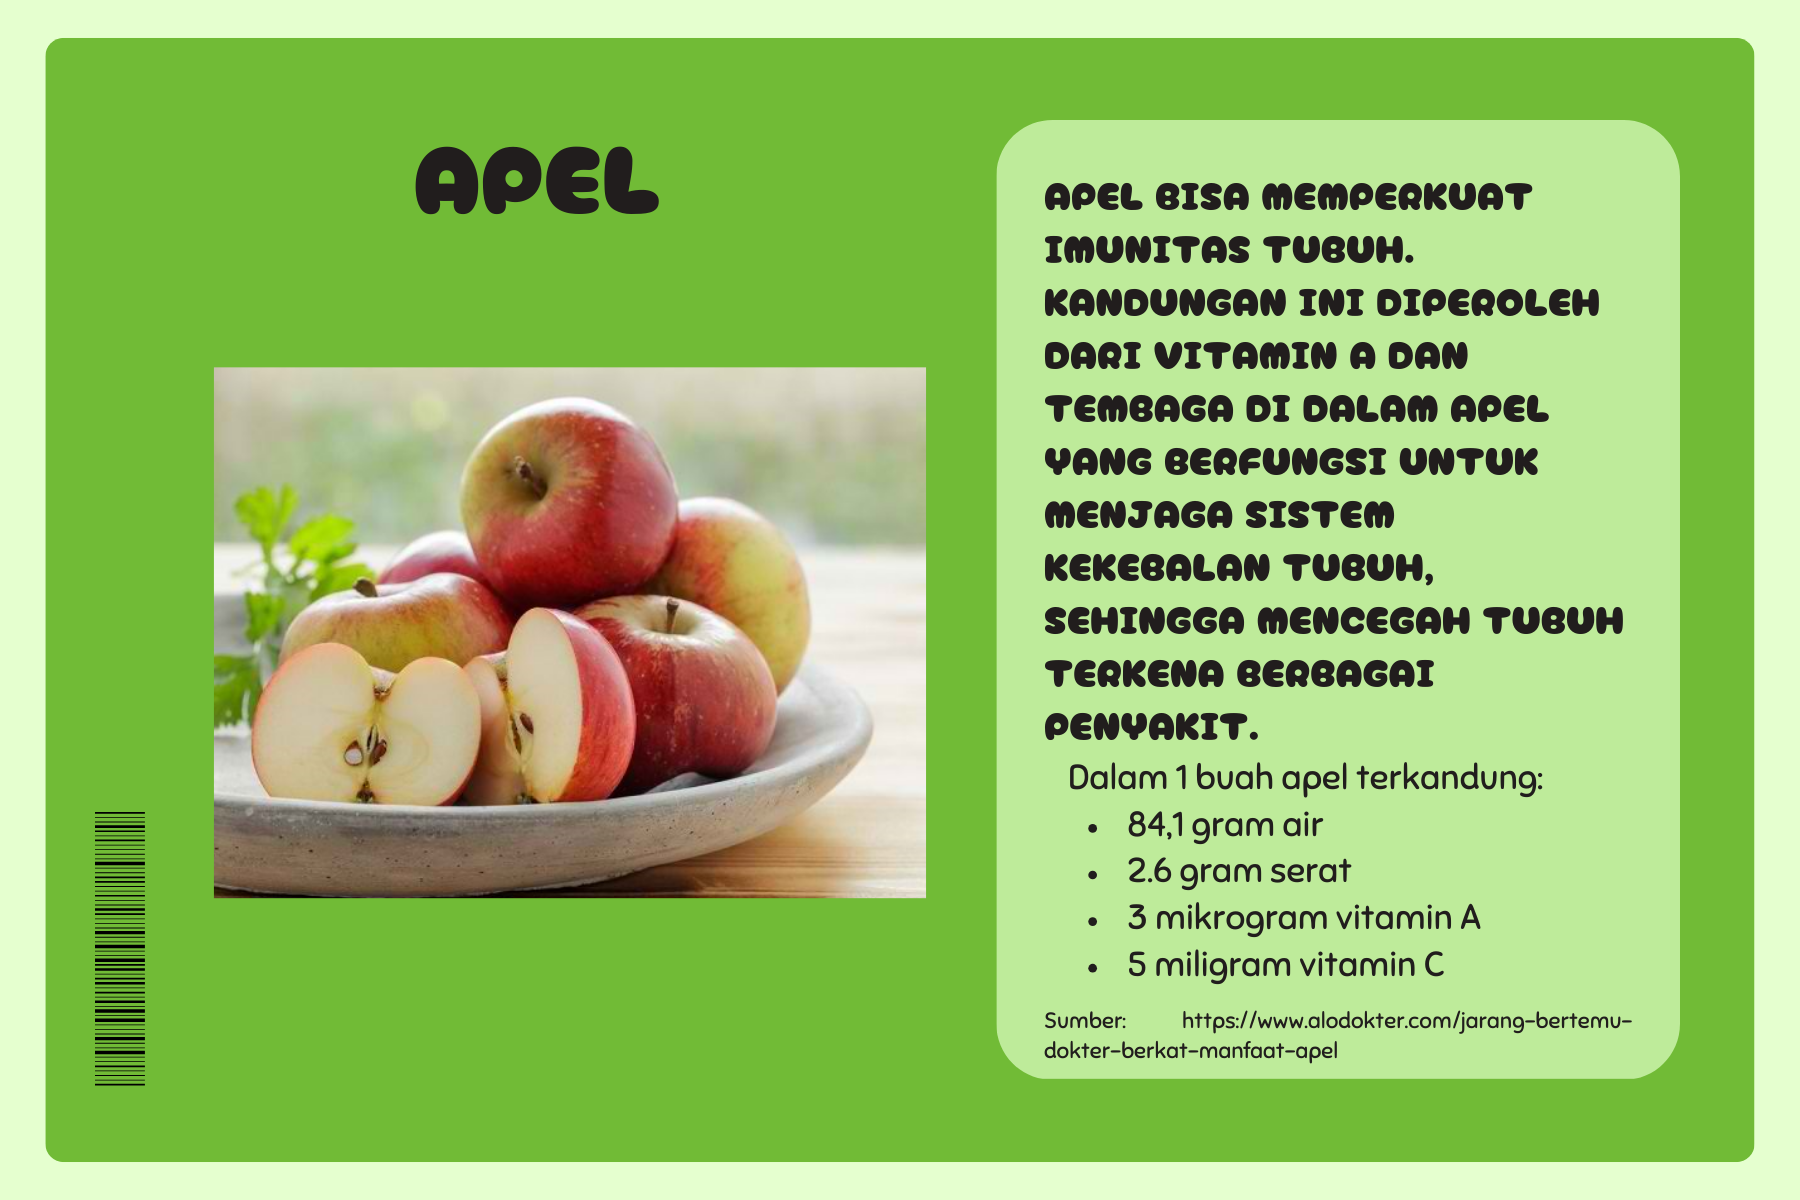
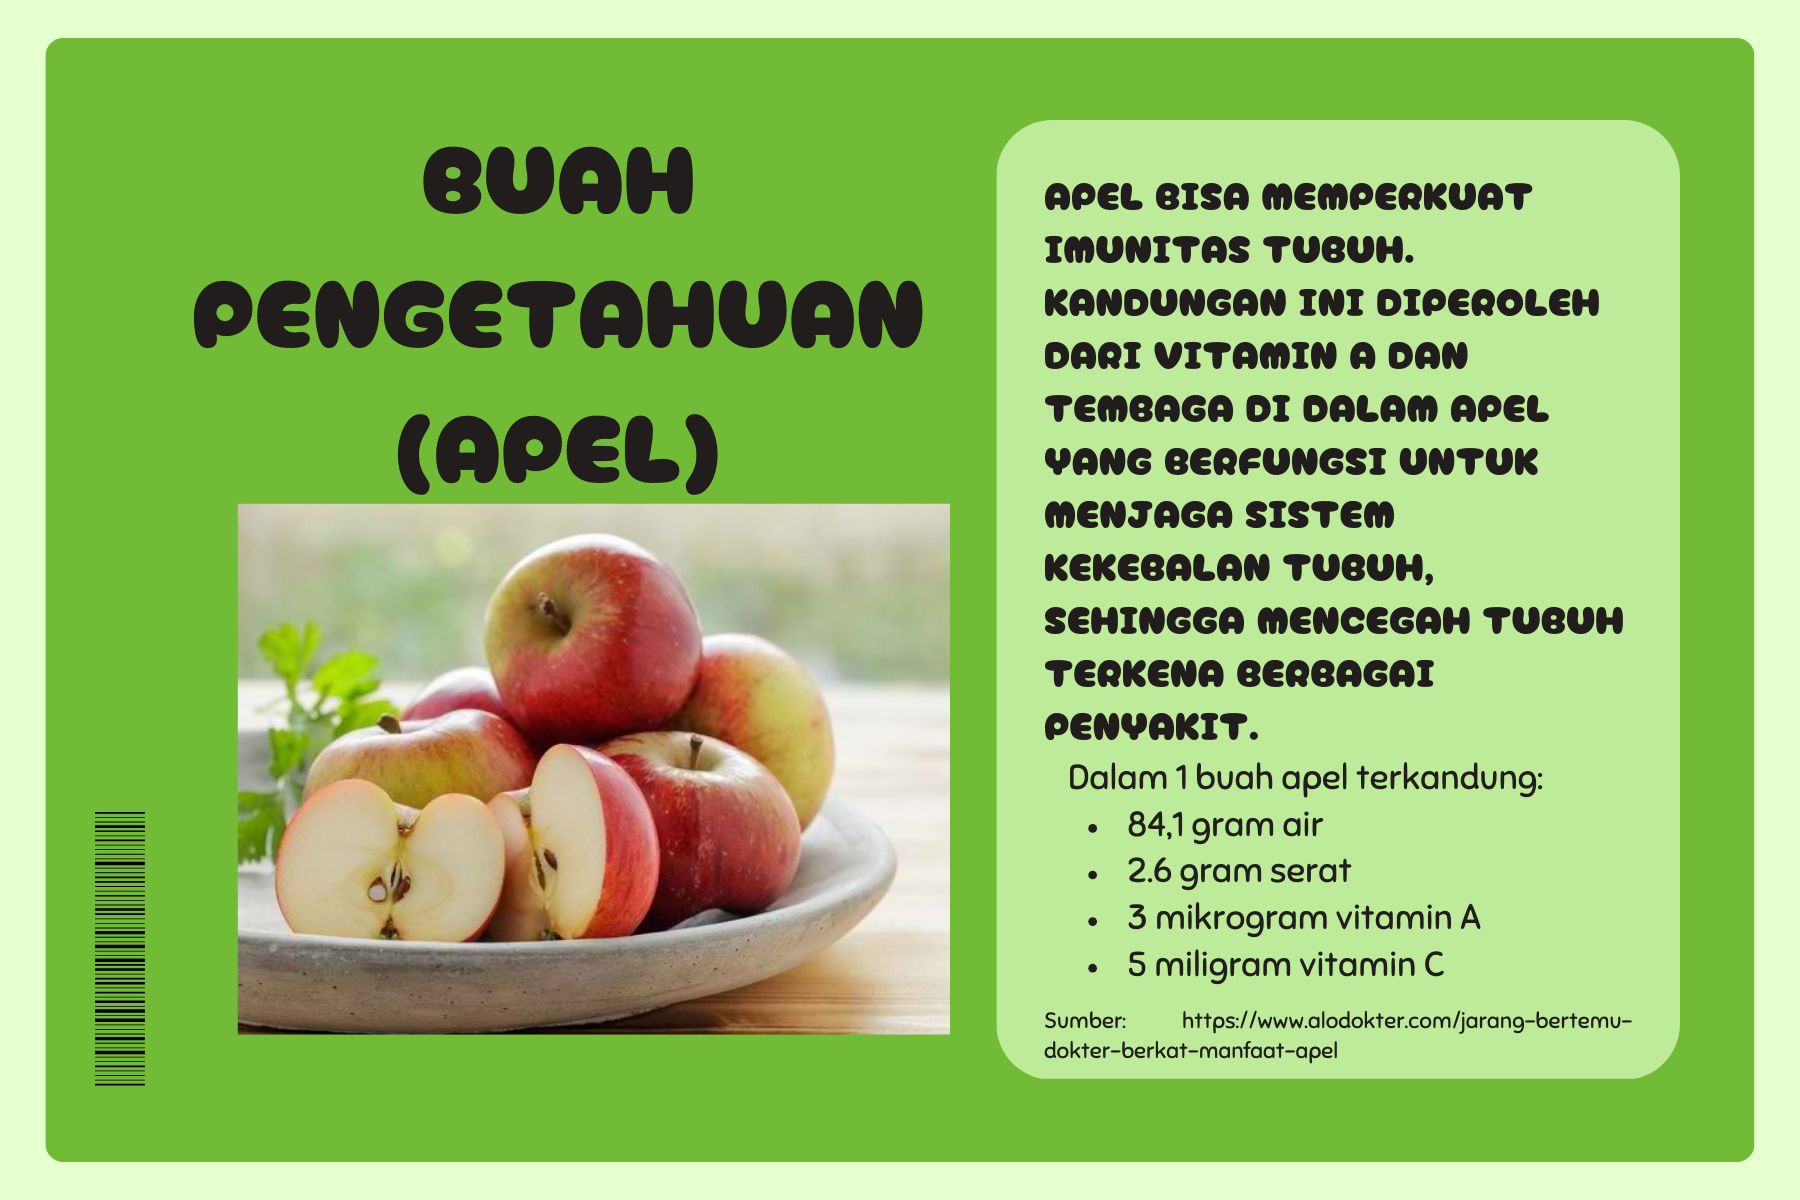
v1.1.1

Changed region(s): [[0.0933, 0.2158, 0.5289, 0.8633], [0.2178, 0.1233, 0.4044, 0.185]]

diff --git a/dashboard.html b/dashboard.html
@@ -34,7 +34,7 @@
        Jumlah: <input type="number" class="jumlah posint">
       </div>
       <div class="col" id="nasi">
-       <b>Nasi Putih</b><br>
+       <b>Snow White</b><br>
        Kalori: <span class="kalori">160</span> kkal<br>
        Point: <span class="point">5</span><br>
        Harga: Rp <span class="harga">5000</span>
@@ -49,7 +49,7 @@
        Jumlah: <input type="number" class="jumlah posint">
       </div>
       <div class="col" id="spaghetti">
-       <b>Spaghetti Bolognese</b><br>
+       <b>Kumis Naga</b><br>
        Kalori: <span class="kalori">370</span> kkal<br>
        Point: <span class="point">10</span><br>
        Harga: Rp <span class="harga">20000</span>
@@ -68,7 +68,7 @@
        Jumlah: <input type="number" class="jumlah posint">
       </div>
       <div class="col" id="rendang">
-       <b>Rendang</b><br>
+       <b>Sapi Imut</b><br>
        Kalori: <span class="kalori">195</span> kkal<br>
        Point: <span class="point">5</span><br>
        Harga: Rp <span class="harga">10000</span>
@@ -83,7 +83,7 @@
        Jumlah: <input type="number" class="jumlah posint">
       </div>
       <div class="col" id="steak">
-       <b>Chicken Steak</b><br>
+       <b>Ayam Pyok Pyok</b><br>
        Kalori: <span class="kalori">165</span> kkal<br>
        Point: <span class="point">5</span><br>
        Harga: Rp <span class="harga">10000</span>
@@ -102,7 +102,7 @@
        Jumlah: <input type="number" class="jumlah posint">
       </div>
       <div class="col" id="brokoli">
-       <b>Cah Brokoli</b><br>
+       <b>Kribo Sehat</b><br>
        Kalori: <span class="kalori">34</span> kkal<br>
        Point: <span class="point">10</span><br>
        Harga: Rp <span class="harga">7000</span>
@@ -117,7 +117,7 @@
        Jumlah: <input type="number" class="jumlah posint">
       </div>
       <div class="col" id="kangkung">
-       <b>Tumis Kangkung</b><br>
+       <b>Favoritnya Kelinci</b><br>
        Kalori: <span class="kalori">28</span> kkal<br>
        Point: <span class="point">15</span><br>
        Harga: Rp <span class="harga">3000</span>
@@ -136,7 +136,7 @@
        Jumlah: <input type="number" class="jumlah posint">
       </div>
       <div class="col" id="pisang">
-       <b>Pisang</b><br>
+       <b>Bulan Sabit</b><br>
        Kalori: <span class="kalori">99</span> kkal<br>
        Point: <span class="point">15</span><br>
        Harga: Rp <span class="harga">2000</span>
@@ -151,7 +151,7 @@
        Jumlah: <input type="number" class="jumlah posint">
       </div>
       <div class="col" id="apel">
-       <b>Apel</b><br>
+       <b>Buah Pengetahuan</b><br>
        Kalori: <span class="kalori">40</span> kkal<br>
        Point: <span class="point">10</span><br>
        Harga: Rp <span class="harga">5000</span>
@@ -188,30 +188,30 @@ Icon by graphicmall-->
    <div class="modal-dialog modal-dialog-centered">
     <div class="modal-content">
      <div class="modal-header">
-      <button class="btn-close" data-bs-dismiss="modal"></button>
+      <button class="btn-close" data-bs-dismiss="modal" style="width:fit-content;"></button>
      </div>
      <div class="modal-body">
       <img id="menu_d"></img>
       <!--
        GAMBAR:
-       Nasi : https://res.cloudinary.com/dk0z4ums3/image/upload/v1636537131/attached_image/nutrisi-dan-kalori-nasi-putih-serta-fungsinya-bagi-tubuh-0-alodokter.jpg
-       Spaghetti Bolognese : https://akcdn.detik.net.id/community/media/visual/2022/01/26/resep-spaghetti-bolognese_43.jpeg?w=700&q=90
-       Rendang : https://doktersehat.com/wp-content/uploads/2018/06/Gizi-dan-cara-sehat-makan-rendang-doktersehat-1.jpg
-       Chicken Steak : https://akcdn.detik.net.id/community/media/visual/2017/12/07/777b189c-3e98-46cf-9d5d-6bf1ea306040.jpg?w=700&q=90
-       Brokoli : https://cdn.hellosehat.com/wp-content/uploads/2017/07/1b625924e1a8e042675f61639de71f93-700x467.jpg
-       Kangkung : https://cdn.hellosehat.com/wp-content/uploads/2017/06/manfaat-kangkung.jpg?w=750&q=75
-       Pisang Ambon : https://manfaat.co.id/wp-content/uploads/2015/04/manfaat-pisang-ambon.jpg
-       Apel : https://res.cloudinary.com/dk0z4ums3/image/upload/v1630331721/attached_image/jarang-bertemu-dokter-berkat-manfaat-apel-0-alodokter.jpg
+       Snow White : https://res.cloudinary.com/dk0z4ums3/image/upload/v1636537131/attached_image/nutrisi-dan-kalori-nasi-putih-serta-fungsinya-bagi-tubuh-0-alodokter.jpg
+       Kumis Naga : https://akcdn.detik.net.id/community/media/visual/2022/01/26/resep-spaghetti-bolognese_43.jpeg?w=700&q=90
+       Sapi Imut : https://doktersehat.com/wp-content/uploads/2018/06/Gizi-dan-cara-sehat-makan-rendang-doktersehat-1.jpg
+       Ayam Pyok Pyok : https://akcdn.detik.net.id/community/media/visual/2017/12/07/777b189c-3e98-46cf-9d5d-6bf1ea306040.jpg?w=700&q=90
+       Kribo Sehat : https://cdn.hellosehat.com/wp-content/uploads/2017/07/1b625924e1a8e042675f61639de71f93-700x467.jpg
+       Favoritnya Kelinci : https://cdn.hellosehat.com/wp-content/uploads/2017/06/manfaat-kangkung.jpg?w=750&q=75
+       Bulan Sabit : https://manfaat.co.id/wp-content/uploads/2015/04/manfaat-pisang-ambon.jpg
+       Buah Pengetahuan : https://res.cloudinary.com/dk0z4ums3/image/upload/v1630331721/attached_image/jarang-bertemu-dokter-berkat-manfaat-apel-0-alodokter.jpg
 
        INFORMASI GIZI:
-       Nasi : https://www.alodokter.com/nutrisi-dan-kalori-nasi-putih-serta-fungsinya-bagi-tubuh
-       Spaghetti Bolognese : https://www.fatsecret.co.id/kalori-gizi/yummy-choice/spaghetti-bolognese/1-porsi
-       Rendang : https://www.fatsecret.co.id/kalori-gizi/umum/rendang
-       Chicken Steak : https://www.fatsecret.co.id/kalori-gizi/umum/daging-dada-ayam-(ayam-pedaging-dipanggang-dimasak)
-       Brokoli : https://hellosehat.com/nutrisi/fakta-gizi/10-manfaat-brokoli-anti-kanker-kesehatan-hamil/
-       Kangkung : https://hellosehat.com/nutrisi/fakta-gizi/manfaat-kangkung-buat-kesehatan/
-       Pisang Ambon : https://manfaat.co.id/manfaat-pisang-ambon
-       Apel : https://www.alodokter.com/jarang-bertemu-dokter-berkat-manfaat-apel
+       Snow White : https://www.alodokter.com/nutrisi-dan-kalori-nasi-putih-serta-fungsinya-bagi-tubuh
+       Kumis Naga : https://www.fatsecret.co.id/kalori-gizi/yummy-choice/spaghetti-bolognese/1-porsi
+       Sapi Imut : https://www.fatsecret.co.id/kalori-gizi/umum/rendang
+       Ayam Pyok Pyok : https://www.fatsecret.co.id/kalori-gizi/umum/daging-dada-ayam-(ayam-pedaging-dipanggang-dimasak)
+       Kribo Sehat : https://hellosehat.com/nutrisi/fakta-gizi/10-manfaat-brokoli-anti-kanker-kesehatan-hamil/
+       Favoritnya Kelinci : https://hellosehat.com/nutrisi/fakta-gizi/manfaat-kangkung-buat-kesehatan/
+       Bulan Sabit : https://manfaat.co.id/manfaat-pisang-ambon
+       Buah Pengetahuan : https://www.alodokter.com/jarang-bertemu-dokter-berkat-manfaat-apel
       -->
      </div>
     </div>
@@ -220,5 +220,8 @@ Icon by graphicmall-->
   <script src="js/element_manipulator.js"></script>
   <script src="js/dashboardjs.js"></script>
   <script src="footer.js"></script>
+  <!--
+   Background Remover : https://remove.bg
+  -->
  </body>
 </html>

diff --git a/index.html b/index.html
@@ -22,7 +22,7 @@
     </div>
     <div class="col">
      <h1>Welcome to Limamenit.net</h1><br>
-     <h2>Kantin Sekolah Cepat dan Sehat</h2>
+     <h2 style="color:#444;">Kantin Sekolah Cepat dan Sehat</h2>
     </div>
    </div>
   </div>
@@ -70,17 +70,17 @@
    <h1 class="text-center">Testimoni</h1><br>
    <div class="row">
     <div class="col">
-     <img src="asset/logo.png" alt="@SmartBoy"><br>
-     <a>@SmartBoy</a>
-     <p>Jadi suka makan sayur dan buah nih sejak order makanan kantin lewat Limamenit.net. Abis dapat tambahan point berhadiah sih kalau makan sehat..wkk…wkk</p>
+      <img src="asset/SmartBoy.png" alt="@SmartBoy" width="200" height="200"><!--Dibuat menggunakan https://canva.com dan PowerPoint, Sumber: Foto Pribadi--><br>
+      <a>@SmartBoy</a><br>
+      <p>Jadi suka makan sayur dan buah nih sejak order makanan kantin lewat Limamenit.net. Abis dapat tambahan point berhadiah sih kalau makan sehat..wkk…wkk</p>
     </div>
     <div class="col">
-     <img src="asset/logo.png" alt="@KokiCantik"><br>
+     <img src="asset/KokiCantik.png" alt="@KokiCantik" width="200" height="194"><!--Dibuat menggunakan https://canva.com dan PowerPoint, Sumber: Foto Pribadi--><br>
      <a>@KokiCantik</a>
      <p>Dulu masakan kantin sering sisa, sekarang jadi sold out terus karena masaknya bisa diatur sesuai order. Pelanggan kenyang, kantin cuan, zero waste</p>
     </div>
     <div class="col">
-     <img src="asset/logo.png" alt="@MsChem"><br>
+     <img src="asset/MsChem.png" alt="@MsChem" width="200" height="202"><br><!--Dibuat menggunakan https://canva.com dan PowerPoint, Sumber: Foto Pribadi-->
      <a>@MsChem</a>
      <p>Ga ada lagi murid telat masuk kelas karena lama antri di kantin</p>
     </div>
@@ -133,5 +133,8 @@
   <script src="js/element_manipulator.js"></script>
   <script src="js/indexjs.js"></script>
   <script src="footer.js"></script>
+  <!--
+   Background Remover : https://remove.bg
+  -->
  </body>
 </html>

diff --git a/header.js b/header.js
@@ -15,7 +15,7 @@ if (docname == "index.html") {
  navopt.innerHTML = '<li class="nav-item"><a class="nav-link" href="#">Home</a></li><li class="nav-item"><a class="nav-link" href="#about">About Us</a></li><li class="nav-item"><a class="nav-link" href="#testimoni">Testimoni</a></li><li class="nav-item"><a class="nav-link" href="#artikel">Artikel</a></li><li class="nav-item"><a class="nav-link" id="acc_home"></a></li>';
  const acc_home = document.querySelector ("#acc_home");
  if (sessionStorage.getItem("account") != null) {
-  acc_home.innerHTML = "Dashboard";
+  acc_home.innerHTML = "Order";
   acc_home.href = "dashboard.html";
  } else {
   acc_home.innerHTML = "Login";

diff --git a/point.html b/point.html
@@ -14,7 +14,7 @@
  <body>
   <!--header-->
   <script src="header.js"></script>
-  Total Point : <div class="var" id="total_point"></div><br><br>
+  Point Anda : <div id="total_point"></div><br><br>
   <!--Point info-->
   <div style="background-image:url('asset/pointbg.png'); background-size:cover;" id="point_info_cont_cont">
    <div id="point_info_container">
@@ -39,5 +39,8 @@
   <script src="js/element_manipulator.js"></script>
   <script src="js/pointjs.js"></script>
   <script src="footer.js"></script>
+  <!--
+   Background Remover : https://remove.bg
+  -->
  </body>
 </html>

diff --git a/css/indexstyle.css b/css/indexstyle.css
@@ -9,12 +9,13 @@ body {
  top:20%;
  position:relative;
 }
-#about p {
- font-size:20px;
-}
-#testimoni a {
+#testimoni+div a {
  color:blue;
  text-decoration:underline;
+}
+#testimoni+div img {
+ display:block;
+ margin:auto;
 }
 #error {
  color:red;

diff --git a/order.html b/order.html
@@ -25,4 +25,7 @@
   </script>
   <script src="js/element_manipulator.js"></script>
   <script src="footer.js"></script>
+  <!--
+   Background Remover : https://remove.bg
+  -->
  </body>

diff --git a/css/pointstyle.css b/css/pointstyle.css
@@ -14,3 +14,7 @@ body {
  display:flex;
  align-items:center;
 }
+#total_point {
+ display:inline-block;
+ margin-top:10px;
+}
